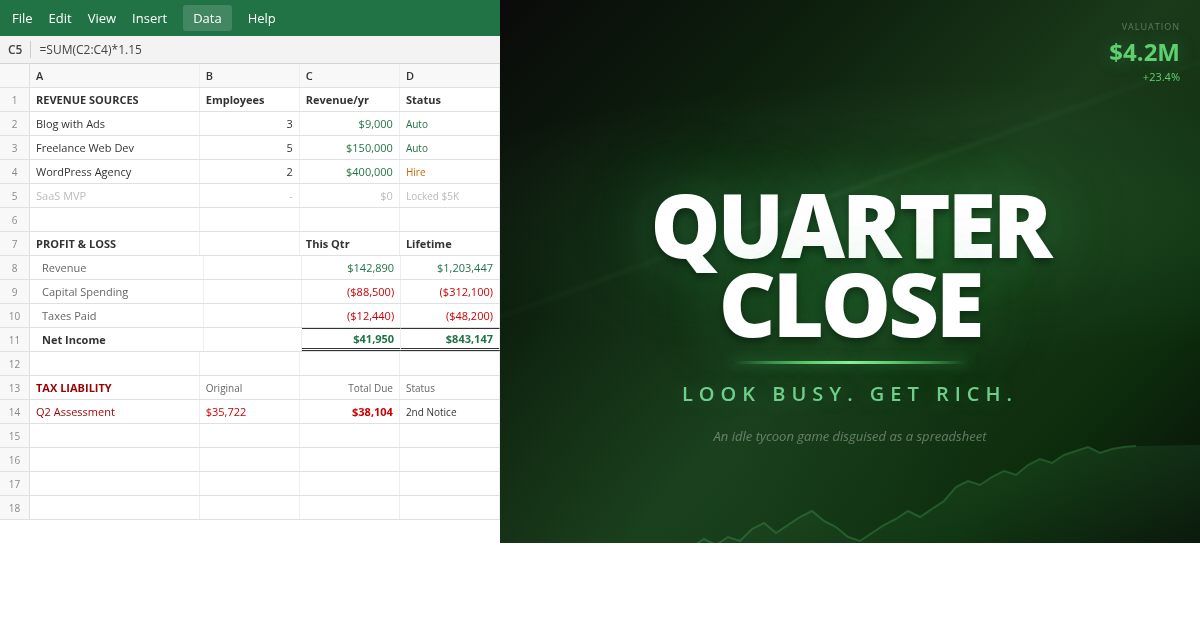
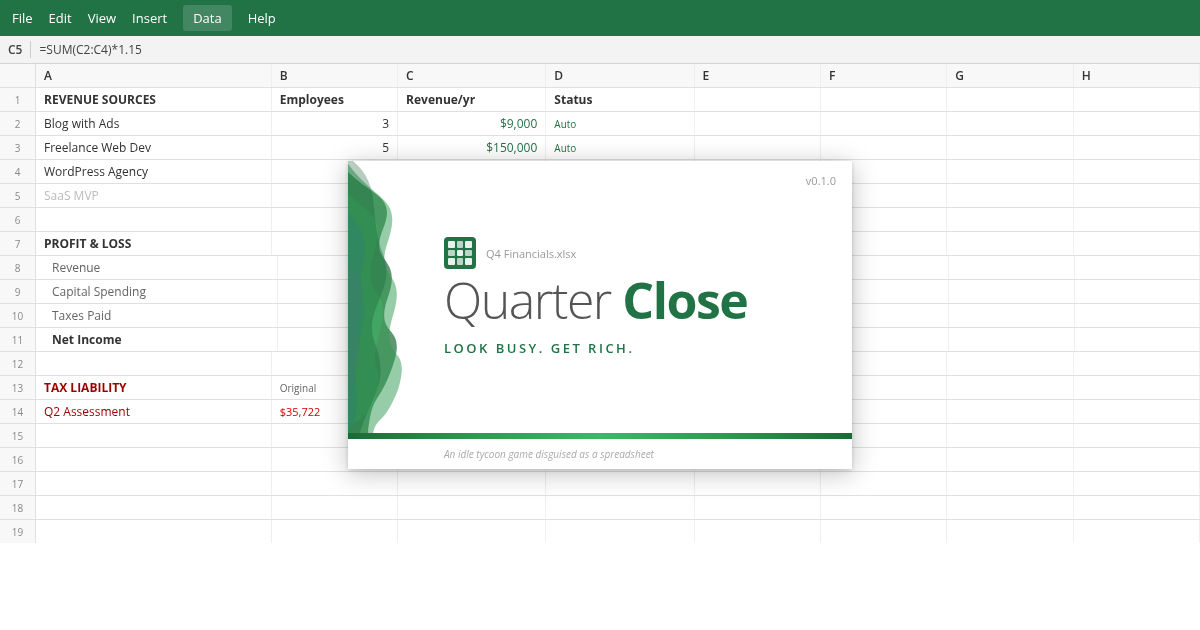
Save approved V12 preview design (Office 2003 splash overlay)
Approved by the developer. Key elements:
- Full-width spreadsheet background with game data visible
- Office 2003-style splash overlay centered (~504x308)
- Green abstract swoosh on left edge
- 'Q4 Financials.xlsx' top label with grid icon
- 'Quarter Close' title (light gray + bold green)
- 'LOOK BUSY. GET RICH.' subtitle
- Green accent bar at bottom
- Tagline in footer: 'An idle tycoon game disguised as a spreadsheet'
- v0.1.0 top-right

diff --git a/preview-source.html b/preview-source.html
@@ -1,0 +1,348 @@
+<!DOCTYPE html>
+<html>
+<head>
+<meta charset="utf-8">
+<style>
+  * { margin: 0; padding: 0; box-sizing: border-box; }
+  body { width: 1200px; height: 630px; overflow: hidden; font-family: 'Segoe UI', Calibri, sans-serif; }
+  .card {
+    width: 1200px; height: 630px;
+    position: relative;
+    background: #f0f0f0;
+  }
+
+  /* FULL-WIDTH SPREADSHEET BEHIND */
+  .spreadsheet {
+    width: 100%; height: 100%;
+    background: white;
+    display: flex; flex-direction: column;
+  }
+  .toolbar {
+    height: 36px; background: #217346;
+    display: flex; align-items: center;
+    padding: 0 12px; gap: 16px;
+  }
+  .toolbar span { color: white; font-size: 13px; font-weight: 500; }
+  .toolbar .active { background: rgba(255,255,255,0.15); padding: 4px 10px; border-radius: 3px; }
+  .formula-bar {
+    height: 28px; background: #f3f3f3; border-bottom: 1px solid #d4d4d4;
+    display: flex; align-items: center; padding: 0 8px;
+    font-size: 12px; color: #444;
+  }
+  .formula-bar .ref { font-weight: 600; margin-right: 8px; border-right: 1px solid #ccc; padding-right: 8px; }
+  .grid { flex: 1; display: flex; flex-direction: column; }
+  .grid-row {
+    display: flex; border-bottom: 1px solid #e0e0e0;
+    height: 24px; align-items: center;
+  }
+  .grid-row.header { background: #f8f8f8; font-weight: 600; font-size: 11px; color: #555; }
+  .row-num { width: 36px; text-align: center; font-size: 10px; color: #888; background: #f8f8f8; border-right: 1px solid #e0e0e0; height: 100%; display: flex; align-items: center; justify-content: center; }
+  .cell { flex: 1; padding: 0 8px; font-size: 12px; color: #333; border-right: 1px solid #eee; height: 100%; display: flex; align-items: center; }
+  .cell.money { justify-content: flex-end; font-family: Consolas, monospace; color: #217346; }
+  .cell.num { justify-content: flex-end; font-family: Consolas, monospace; }
+  .cell.red { color: #c00; }
+  .cell.bold { font-weight: 700; }
+  .cell.section { font-weight: 700; color: #333; }
+  .cell.label { color: #666; padding-left: 16px; }
+  .cell.locked { color: #bbb; }
+
+  /* SPLASH OVERLAY — centered, ~70% size */
+  .splash-overlay {
+    position: absolute;
+    top: 50%; left: 50%;
+    transform: translate(-50%, -50%);
+    width: 504px; /* ~70% of 720 */
+    height: 308px; /* ~70% of 440 */
+    background: white;
+    box-shadow: 0 4px 24px rgba(0,0,0,0.25), 0 1px 4px rgba(0,0,0,0.15);
+    display: flex; flex-direction: column;
+    overflow: hidden;
+    z-index: 10;
+  }
+  .splash-inner {
+    flex: 1;
+    display: flex;
+    position: relative;
+  }
+  /* Abstract swoosh on left edge */
+  .swoosh-container {
+    position: absolute;
+    left: 0; top: 0; bottom: 0;
+    width: 80px;
+    overflow: hidden;
+  }
+  .swoosh-container svg {
+    position: absolute;
+    left: -10px; top: 0;
+    width: 100px; height: 100%;
+  }
+  /* Content */
+  .splash-content {
+    flex: 1;
+    display: flex;
+    flex-direction: column;
+    justify-content: center;
+    padding: 24px 30px 24px 96px;
+    z-index: 2;
+  }
+  .splash-brand {
+    position: absolute;
+    top: 12px; right: 16px;
+    font-size: 11px; color: #999;
+    font-weight: 500;
+  }
+  .splash-icon {
+    display: flex;
+    align-items: center;
+    gap: 10px;
+    margin-bottom: 4px;
+  }
+  .splash-icon .icon-grid {
+    width: 32px; height: 32px;
+    background: #217346;
+    border-radius: 4px;
+    display: grid;
+    grid-template-columns: repeat(3, 1fr);
+    grid-template-rows: repeat(3, 1fr);
+    gap: 2px;
+    padding: 4px;
+  }
+  .icon-grid .ic { background: rgba(255,255,255,0.7); border-radius: 1px; }
+  .icon-grid .ic:nth-child(odd) { background: rgba(255,255,255,0.9); }
+  .splash-product-label {
+    font-size: 11px; color: #999;
+    font-weight: 400;
+  }
+  .splash-title {
+    font-size: 50px; font-weight: 300;
+    color: #555;
+    letter-spacing: -1.5px; line-height: 1;
+    margin-top: 2px;
+  }
+  .splash-title span {
+    color: #217346;
+    font-weight: 700;
+  }
+  .splash-subtitle {
+    font-size: 13px; color: #217346;
+    font-weight: 600; letter-spacing: 2.5px;
+    text-transform: uppercase;
+    margin-top: 14px;
+  }
+  /* Green accent bar */
+  .splash-bar {
+    height: 6px;
+    background: linear-gradient(90deg, #1a6b35, #2d9a50, #3cb868, #2d9a50, #1a6b35);
+  }
+  .splash-footer {
+    padding: 8px 30px 8px 96px;
+    font-size: 10px; color: #aaa;
+    font-style: italic;
+  }
+</style>
+</head>
+<body>
+<div class="card">
+  <!-- Full spreadsheet background -->
+  <div class="spreadsheet">
+    <div class="toolbar">
+      <span>File</span><span>Edit</span><span>View</span><span>Insert</span><span class="active">Data</span><span>Help</span>
+    </div>
+    <div class="formula-bar">
+      <span class="ref">C5</span>
+      <span>=SUM(C2:C4)*1.15</span>
+    </div>
+    <div class="grid">
+      <div class="grid-row header">
+        <div class="row-num"></div>
+        <div class="cell" style="flex:2">A</div>
+        <div class="cell">B</div>
+        <div class="cell" style="flex:1.2">C</div>
+        <div class="cell" style="flex:1.2">D</div>
+        <div class="cell">E</div>
+        <div class="cell">F</div>
+        <div class="cell">G</div>
+        <div class="cell">H</div>
+      </div>
+      <div class="grid-row">
+        <div class="row-num">1</div>
+        <div class="cell section" style="flex:2">REVENUE SOURCES</div>
+        <div class="cell bold">Employees</div>
+        <div class="cell bold" style="flex:1.2">Revenue/yr</div>
+        <div class="cell bold" style="flex:1.2">Status</div>
+        <div class="cell"></div><div class="cell"></div><div class="cell"></div><div class="cell"></div>
+      </div>
+      <div class="grid-row">
+        <div class="row-num">2</div>
+        <div class="cell" style="flex:2">Blog with Ads</div>
+        <div class="cell num">3</div>
+        <div class="cell money" style="flex:1.2">$9,000</div>
+        <div class="cell" style="flex:1.2;color:#217346;font-size:10px">Auto</div>
+        <div class="cell"></div><div class="cell"></div><div class="cell"></div><div class="cell"></div>
+      </div>
+      <div class="grid-row">
+        <div class="row-num">3</div>
+        <div class="cell" style="flex:2">Freelance Web Dev</div>
+        <div class="cell num">5</div>
+        <div class="cell money" style="flex:1.2">$150,000</div>
+        <div class="cell" style="flex:1.2;color:#217346;font-size:10px">Auto</div>
+        <div class="cell"></div><div class="cell"></div><div class="cell"></div><div class="cell"></div>
+      </div>
+      <div class="grid-row">
+        <div class="row-num">4</div>
+        <div class="cell" style="flex:2">WordPress Agency</div>
+        <div class="cell num">2</div>
+        <div class="cell money" style="flex:1.2">$400,000</div>
+        <div class="cell" style="flex:1.2;color:#c60;font-size:10px">Hire</div>
+        <div class="cell"></div><div class="cell"></div><div class="cell"></div><div class="cell"></div>
+      </div>
+      <div class="grid-row">
+        <div class="row-num">5</div>
+        <div class="cell locked" style="flex:2">SaaS MVP</div>
+        <div class="cell locked num">-</div>
+        <div class="cell locked" style="flex:1.2;justify-content:flex-end;font-family:Consolas,monospace">$0</div>
+        <div class="cell locked" style="flex:1.2;font-size:10px">Locked $5K</div>
+        <div class="cell"></div><div class="cell"></div><div class="cell"></div><div class="cell"></div>
+      </div>
+      <div class="grid-row">
+        <div class="row-num">6</div>
+        <div class="cell" style="flex:2"></div><div class="cell"></div><div class="cell" style="flex:1.2"></div><div class="cell" style="flex:1.2"></div>
+        <div class="cell"></div><div class="cell"></div><div class="cell"></div><div class="cell"></div>
+      </div>
+      <div class="grid-row">
+        <div class="row-num">7</div>
+        <div class="cell section" style="flex:2">PROFIT & LOSS</div>
+        <div class="cell"></div>
+        <div class="cell bold" style="flex:1.2">This Qtr</div>
+        <div class="cell bold" style="flex:1.2">Lifetime</div>
+        <div class="cell"></div><div class="cell"></div><div class="cell"></div><div class="cell"></div>
+      </div>
+      <div class="grid-row">
+        <div class="row-num">8</div>
+        <div class="cell label" style="flex:2">Revenue</div>
+        <div class="cell"></div>
+        <div class="cell money" style="flex:1.2">$142,890</div>
+        <div class="cell money" style="flex:1.2">$1,203,447</div>
+        <div class="cell"></div><div class="cell"></div><div class="cell"></div><div class="cell"></div>
+      </div>
+      <div class="grid-row">
+        <div class="row-num">9</div>
+        <div class="cell label" style="flex:2">Capital Spending</div>
+        <div class="cell"></div>
+        <div class="cell money red" style="flex:1.2">($88,500)</div>
+        <div class="cell money red" style="flex:1.2">($312,100)</div>
+        <div class="cell"></div><div class="cell"></div><div class="cell"></div><div class="cell"></div>
+      </div>
+      <div class="grid-row">
+        <div class="row-num">10</div>
+        <div class="cell label" style="flex:2">Taxes Paid</div>
+        <div class="cell"></div>
+        <div class="cell money red" style="flex:1.2">($12,440)</div>
+        <div class="cell money red" style="flex:1.2">($48,200)</div>
+        <div class="cell"></div><div class="cell"></div><div class="cell"></div><div class="cell"></div>
+      </div>
+      <div class="grid-row">
+        <div class="row-num">11</div>
+        <div class="cell" style="flex:2;font-weight:700;padding-left:16px">Net Income</div>
+        <div class="cell"></div>
+        <div class="cell money bold" style="flex:1.2;border-top:1px solid #333;border-bottom:3px double #333">$41,950</div>
+        <div class="cell money bold" style="flex:1.2;border-top:1px solid #333;border-bottom:3px double #333">$843,147</div>
+        <div class="cell"></div><div class="cell"></div><div class="cell"></div><div class="cell"></div>
+      </div>
+      <div class="grid-row">
+        <div class="row-num">12</div>
+        <div class="cell" style="flex:2"></div><div class="cell"></div><div class="cell" style="flex:1.2"></div><div class="cell" style="flex:1.2"></div>
+        <div class="cell"></div><div class="cell"></div><div class="cell"></div><div class="cell"></div>
+      </div>
+      <div class="grid-row">
+        <div class="row-num">13</div>
+        <div class="cell section" style="flex:2;color:#900">TAX LIABILITY</div>
+        <div class="cell" style="font-size:10px;color:#666">Original</div>
+        <div class="cell" style="flex:1.2;font-size:10px;color:#666;justify-content:flex-end">Total Due</div>
+        <div class="cell" style="flex:1.2;font-size:10px;color:#666">Status</div>
+        <div class="cell"></div><div class="cell"></div><div class="cell"></div><div class="cell"></div>
+      </div>
+      <div class="grid-row">
+        <div class="row-num">14</div>
+        <div class="cell" style="flex:2;color:#900">Q2 Assessment</div>
+        <div class="cell" style="font-family:Consolas,monospace;font-size:11px;color:#c00">$35,722</div>
+        <div class="cell" style="flex:1.2;font-family:Consolas,monospace;font-size:11px;color:#c00;font-weight:700;justify-content:flex-end">$38,104</div>
+        <div class="cell" style="flex:1.2;font-size:10px">2nd Notice</div>
+        <div class="cell"></div><div class="cell"></div><div class="cell"></div><div class="cell"></div>
+      </div>
+      <div class="grid-row">
+        <div class="row-num">15</div>
+        <div class="cell" style="flex:2"></div><div class="cell"></div><div class="cell" style="flex:1.2"></div><div class="cell" style="flex:1.2"></div>
+        <div class="cell"></div><div class="cell"></div><div class="cell"></div><div class="cell"></div>
+      </div>
+      <div class="grid-row">
+        <div class="row-num">16</div>
+        <div class="cell" style="flex:2"></div><div class="cell"></div><div class="cell" style="flex:1.2"></div><div class="cell" style="flex:1.2"></div>
+        <div class="cell"></div><div class="cell"></div><div class="cell"></div><div class="cell"></div>
+      </div>
+      <div class="grid-row">
+        <div class="row-num">17</div>
+        <div class="cell" style="flex:2"></div><div class="cell"></div><div class="cell" style="flex:1.2"></div><div class="cell" style="flex:1.2"></div>
+        <div class="cell"></div><div class="cell"></div><div class="cell"></div><div class="cell"></div>
+      </div>
+      <div class="grid-row">
+        <div class="row-num">18</div>
+        <div class="cell" style="flex:2"></div><div class="cell"></div><div class="cell" style="flex:1.2"></div><div class="cell" style="flex:1.2"></div>
+        <div class="cell"></div><div class="cell"></div><div class="cell"></div><div class="cell"></div>
+      </div>
+      <div class="grid-row">
+        <div class="row-num">19</div>
+        <div class="cell" style="flex:2"></div><div class="cell"></div><div class="cell" style="flex:1.2"></div><div class="cell" style="flex:1.2"></div>
+        <div class="cell"></div><div class="cell"></div><div class="cell"></div><div class="cell"></div>
+      </div>
+      <div class="grid-row">
+        <div class="row-num">20</div>
+        <div class="cell" style="flex:2"></div><div class="cell"></div><div class="cell" style="flex:1.2"></div><div class="cell" style="flex:1.2"></div>
+        <div class="cell"></div><div class="cell"></div><div class="cell"></div><div class="cell"></div>
+      </div>
+      <div class="grid-row">
+        <div class="row-num">21</div>
+        <div class="cell" style="flex:2"></div><div class="cell"></div><div class="cell" style="flex:1.2"></div><div class="cell" style="flex:1.2"></div>
+        <div class="cell"></div><div class="cell"></div><div class="cell"></div><div class="cell"></div>
+      </div>
+      <div class="grid-row">
+        <div class="row-num">22</div>
+        <div class="cell" style="flex:2"></div><div class="cell"></div><div class="cell" style="flex:1.2"></div><div class="cell" style="flex:1.2"></div>
+        <div class="cell"></div><div class="cell"></div><div class="cell"></div><div class="cell"></div>
+      </div>
+    </div>
+  </div>
+
+  <!-- SPLASH OVERLAY — centered over the spreadsheet -->
+  <div class="splash-overlay">
+    <div class="splash-inner">
+      <div class="swoosh-container">
+        <svg viewBox="0 0 100 440" preserveAspectRatio="none">
+          <path d="M0,0 C30,60 60,50 45,110 C30,170 65,150 50,220 C35,290 70,260 55,330 C40,400 35,370 30,440 L0,440 Z" fill="#1a6b35" opacity="0.7"/>
+          <path d="M8,0 C38,70 65,55 50,130 C35,200 70,170 55,250 C40,330 75,290 60,370 C45,430 40,410 35,440 L0,440 L0,0 Z" fill="#2d9a50" opacity="0.5"/>
+          <path d="M0,30 C22,90 50,70 36,150 C22,230 55,195 42,275 C28,355 50,320 36,390 C22,430 14,420 8,440 L0,440 Z" fill="#3cb868" opacity="0.4"/>
+          <path d="M15,0 C45,40 30,90 45,150 C60,210 22,240 38,300 C52,360 30,390 22,440 L0,440 L0,0 Z" fill="#0d5a2d" opacity="0.3"/>
+          <path d="M4,70 C18,100 32,115 25,165 C18,210 32,225 22,285 C10,345 25,375 15,430 L0,430 L0,70 Z" fill="#2b6cb0" opacity="0.15"/>
+          <path d="M0,150 C14,185 28,170 22,230 C14,290 28,275 18,340 C8,400 14,420 8,440 L0,440 L0,150 Z" fill="#7b4fa0" opacity="0.1"/>
+        </svg>
+      </div>
+      <div class="splash-brand">v0.1.0</div>
+      <div class="splash-content">
+        <div class="splash-icon">
+          <div class="icon-grid">
+            <div class="ic"></div><div class="ic"></div><div class="ic"></div>
+            <div class="ic"></div><div class="ic"></div><div class="ic"></div>
+            <div class="ic"></div><div class="ic"></div><div class="ic"></div>
+          </div>
+          <div class="splash-product-label">Q4 Financials.xlsx</div>
+        </div>
+        <div class="splash-title">Quarter <span>Close</span></div>
+        <div class="splash-subtitle">LOOK BUSY. GET RICH.</div>
+      </div>
+    </div>
+    <div class="splash-bar"></div>
+    <div class="splash-footer">An idle tycoon game disguised as a spreadsheet</div>
+  </div>
+</div>
+</body>
+</html>
